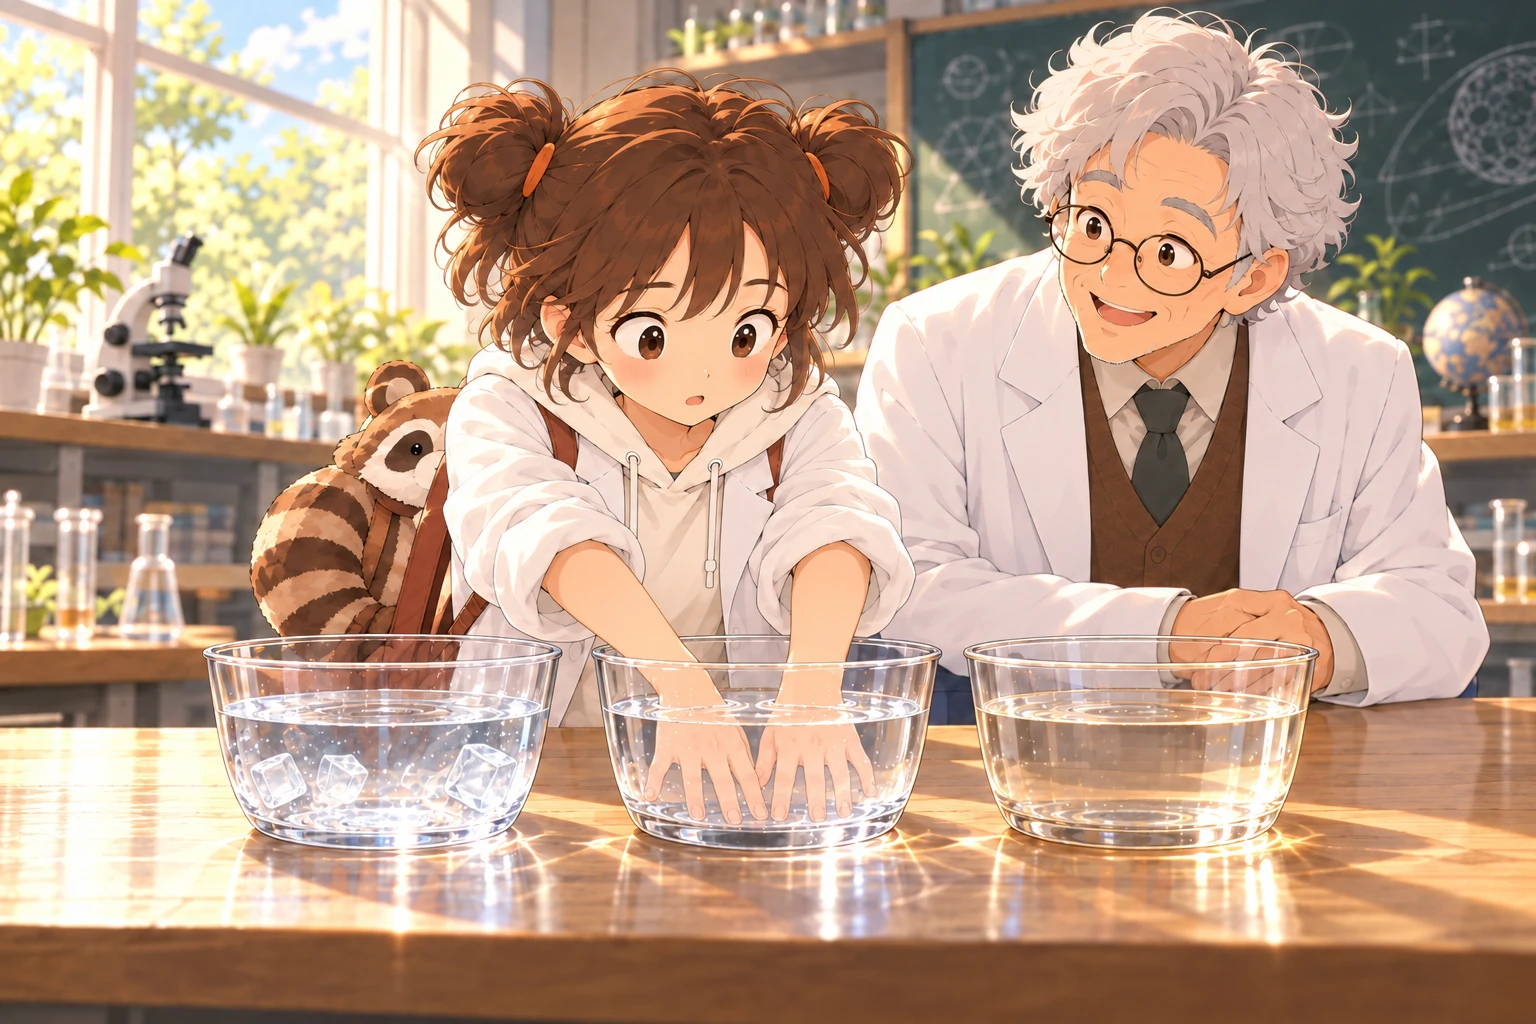
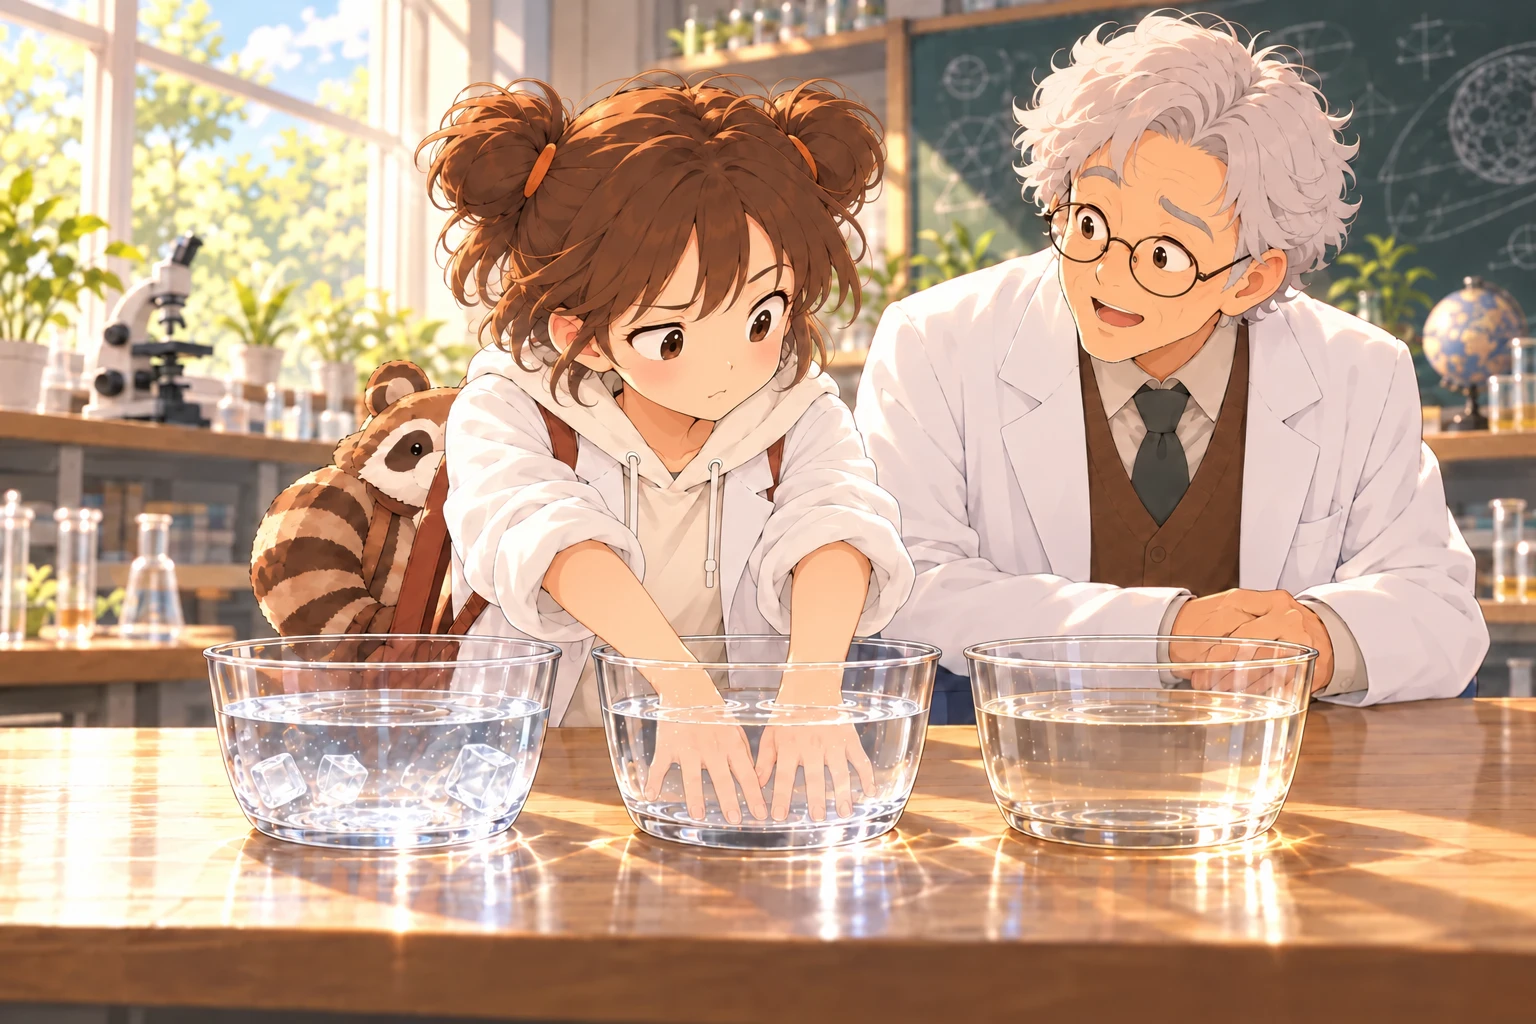
Vary story expressions, label water bowls and halve illustration width

diff --git a/units/5/parts/5.1/index.html b/units/5/parts/5.1/index.html
@@ -61,11 +61,17 @@
             <div class="touch-story-comic">
               <figure class="touch-story-scene">
               <figcaption><h2>1．先碰冷水和溫水</h2></figcaption>
-              <img src="assets/touch-story-before.webp" width="1536" height="1024" alt="小葵兩隻手分別浸在左右兩杯冷水與溫水中，中間的室溫水先不碰，阿公在旁觀察。">
+              <div class="touch-story-picture">
+                <img src="assets/touch-story-before.webp?v=expressions-2" width="1536" height="1024" alt="小葵兩手分別浸在左右的冰水與溫水中，初碰冰水時睜大眼睛、驚訝地張嘴；阿公在旁瞇眼微笑鼓勵。中央室溫水尚未接觸。">
+                <div class="touch-story-water-labels" aria-label="左、中、右三杯水的種類"><span class="water-ice is-touched">冰水</span><span class="water-room">室溫水</span><span class="water-warm is-touched">溫水</span></div>
+              </div>
             </figure>
               <figure class="touch-story-scene">
               <figcaption><h2>2．再碰同一杯水</h2></figcaption>
-              <img src="assets/touch-story-after.webp" width="1536" height="1024" alt="小葵把兩隻手都移入中央同一杯室溫水，露出疑惑的表情。左右兩杯水已沒有手，人物與杯子位置延續前一幕。">
+              <div class="touch-story-picture">
+                <img src="assets/touch-story-after.webp?v=expressions-2" width="1536" height="1024" alt="小葵把兩隻手都移入中央同一杯室溫水，皺眉抿嘴、困惑地看著雙手；阿公睜眼抬眉，準備解釋。左右的冰水與溫水中都已沒有手。">
+                <div class="touch-story-water-labels" aria-label="左、中、右三杯水的種類"><span class="water-ice">冰水</span><span class="water-room is-touched">室溫水</span><span class="water-warm">溫水</span></div>
+              </div>
             </figure>
             </div>
             <div class="dialogue dialogue--xiaokui"><span class="speaker" aria-hidden="true"></span><p>「這隻手覺得暖，另一隻卻覺得涼，明明是同一杯水呀！」</p></div>

diff --git a/units/5/parts/5.1/assets/touch-story.css b/units/5/parts/5.1/assets/touch-story.css
@@ -2,8 +2,16 @@
 #card-01 .card-side{display:flex;align-items:baseline;gap:12px;border-right:0;border-bottom:1px solid var(--line);padding:0 0 12px}
 #card-01 .card-side h3{margin:0;font-size:1.05rem}
 #card-01 .touch-story-comic{display:grid;grid-template-columns:minmax(0,1fr);gap:18px;width:100%;margin:18px 0}
-#card-01 .touch-story-scene{overflow:hidden;min-width:0;margin:0;border:1px solid #ddd8c9;border-radius:12px;background:#fffdf8}
+#card-01 .touch-story-scene{overflow:hidden;min-width:0;width:50%;margin:0 auto;border:1px solid #ddd8c9;border-radius:12px;background:#fffdf8}
 #card-01 figcaption{padding:12px 16px;background:#f2f4e9}
 #card-01 figcaption h2{margin:0;font-size:1rem;line-height:1.5;color:var(--ink)}
 #card-01 img{display:block;width:100%;height:auto}
 @media(max-width:640px){#card-01 .touch-story-comic{gap:14px}#card-01 figcaption{padding:10px 12px}}
+
+#card-01 .touch-story-picture{position:relative}
+#card-01 .touch-story-water-labels{position:absolute;left:12.5%;right:12.5%;top:83%;display:grid;grid-template-columns:repeat(3,minmax(0,1fr));text-align:center}
+#card-01 .touch-story-water-labels span{justify-self:center;padding:3px 7px;border:1px solid #b8bdb5;border-radius:7px;background:rgb(255 253 248 / 96%);color:#3e4e45;font-size:.75rem;font-weight:800;line-height:1.5;white-space:nowrap;box-shadow:0 2px 5px #243a351a}
+#card-01 .touch-story-water-labels .water-ice{color:#205e7b;border-color:#7caebe}
+#card-01 .touch-story-water-labels .water-warm{color:#945023;border-color:#c49a74}
+#card-01 .touch-story-water-labels .is-touched{border-width:2px;background:#fffef8}
+@media(max-width:640px){#card-01 .touch-story-scene{width:100%;max-width:400px}#card-01 .touch-story-water-labels span{font-size:.7rem;padding:2px 5px}}

diff --git a/units/5/parts/5.1/assets/README.md b/units/5/parts/5.1/assets/README.md
@@ -16,3 +16,4 @@
 - 最新依使用者指示移除第一區全部補充段落、人物對話及結論，僅保留兩個步驟標題和兩幅圖片；替代文字保留場景描述，小幅圖片尺寸維持約 195px 寬。
 - 更正前次過度精簡：恢復每格小葵與阿公的共用頭像對話，保留兩個步驟標題，移除額外敘述與結論。桌機插圖寬度由約 193px 增至約 390px，面積約四倍；窄視窗直向閱讀。
 - 依最新更正對齊 3.1／3.2：前段小葵／阿公對話 → 兩幅故事圖 → 後段小葵／阿公對話。四句既有對話逐字保留，移出圖框；兩圖改為全寬直向排列，每幅桌機實測 796px 寬，是先前 193px 小圖的約四倍寬度，圖片不裁切。
+- 最新三項修正：桌機每幅縮至全寬版一半寬，窄視窗保留可讀尺寸；第一幕小葵驚訝、阿公鼓勵微笑，第二幕小葵困惑、阿公抬眉解釋；圖上依杯子位置標示「冰水／室溫水／溫水」，並以粗框標出正在接觸的水杯。照片只改人物表情，既有四句對話與其前後位置保持不變；本故事沒有使用熱水，因此不將溫水誤標成熱水。
